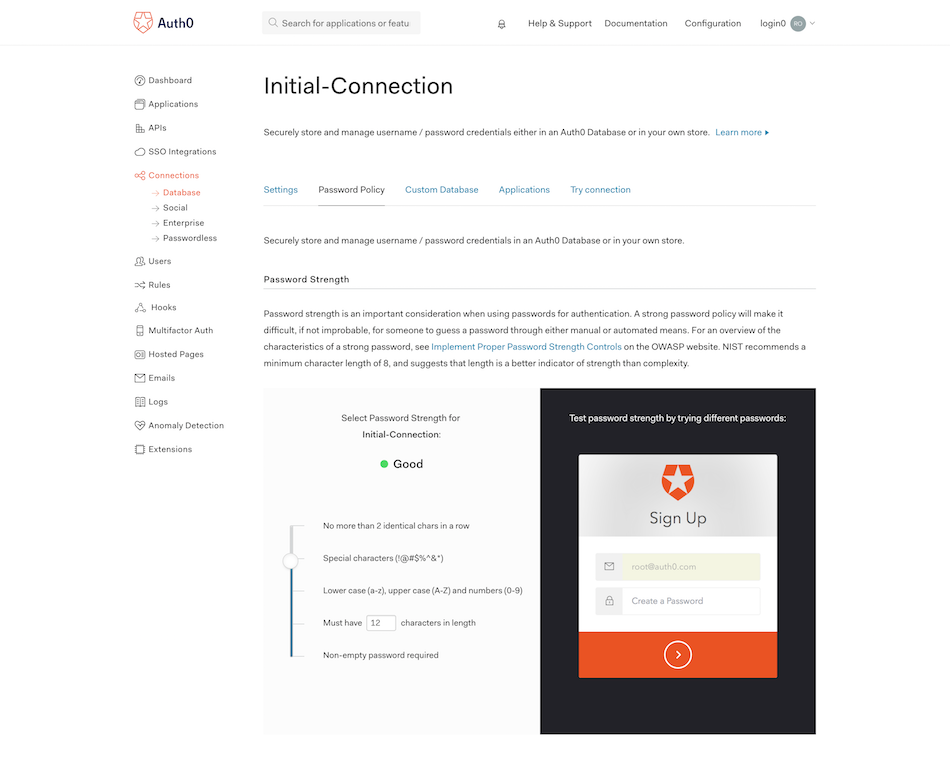
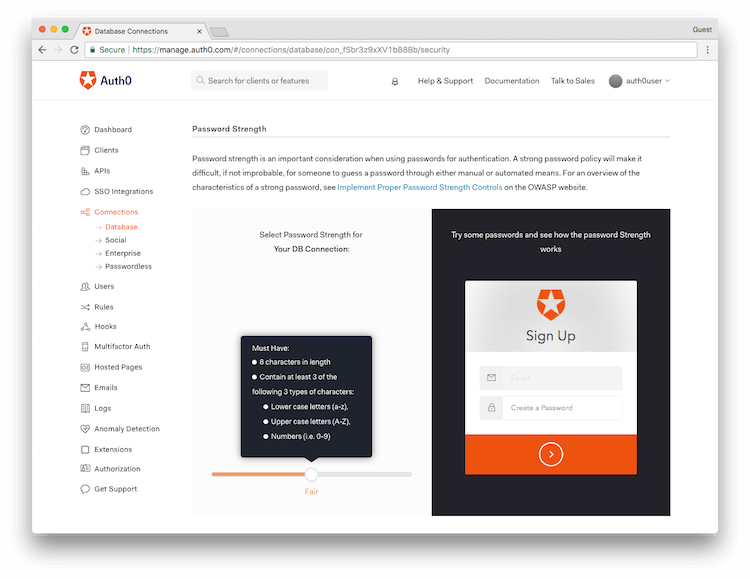
Revert "Minimum Password Length"

diff --git a/articles/hosted-pages/password-reset.md b/articles/hosted-pages/password-reset.md
@@ -1,28 +1,30 @@
 ---
 description: Guide on how to use the hosted password reset page
+crews: crew-2
 topics:
   - password-reset
   - hosted-pages
 contentType: how-to
 useCase: customize-hosted-pages
 ---
+
 # Password Reset Page
 
 The Password Reset Page allows users to change their passwords in the event that they're unable to log in. Using this page, you can maintain consistency in the appearance of your pages (login, password reset, and so on), and your users can easily change their passwords as needed.
 
 This article will help you learn how to configure the custom Password Reset page. If you are trying to reset your own password, see [Reset Your Auth0 Account Password](/support/reset-account-password).
 
-## Enable the Password Reset Page
+## Enable the Custom Password Reset Page
 
 Using the [Auth0 Dashboard](${manage_url}/#/password_reset), you can enable your Hosted Password Reset Page by flipping the toggle switch.
 
 ![Hosted Password Reset Page](/media/articles/hosted-pages/password-reset.png)
 
-## Edit the Password Reset Page
+## Edit the Custom Password Reset Page
 
 Once you've enabled the Password Reset Page for your tenant, you'll be able to use the text editor built into the Auth0 Dashboard to change your HTML, style your page using CSS, and alter the JavaScript used to retrieve custom variables. After you've made your changes, and make sure to click _Save_.
 
-### Custom variables
+### Custom Variables
 
 You can use JavaScript to retrieve the following custom variables:
 
@@ -37,9 +39,7 @@ You can use JavaScript to retrieve the following custom variables:
 | `tenant.support_email` | The support email address for your company displayed to your Auth0 users | 
 | `tenant.support_url` | The support URL for your company displayed to your Auth0 users | 
 | `lang` | The user's language | 
-| `password_policy` | The active connection's security policy. You can see what this is using `${manage_url}/#/connections/database/con_YOUR-CONNECTION-ID/security`. Be sure to provide your connection ID in the URL.) |
-| `password_complexity_options` | Object containing settings for the password complexity requirements |
-| `min_length` | The minimum length required for newly-created passwords. Can range from 1 to 128 characters in length |
+| `password_policy` | The active connection's security policy You can see what this is using `${manage_url}/#/connections/database/con_YOUR-CONNECTION-ID/security`. Be sure to provide your connection ID in the URL.) | 
 
 ::: note
 You can set/check the values for your `tenant` variables in the **Settings** area in [Tenant Settings](${manage_url}/#/tenant)
@@ -100,51 +100,7 @@ Notice that the sample template uses the `tenant.picture_url` variable to return
   </script>
 ```
 
-## Set the minimum password length value
-
-[](/connections/database/password-strength)
-
-Customers currently using a customized Password Reset Page who want to use the new password length parameter must:
-
-1. Update their templates to include library version 1.5.1 or later
-2. Add `password_complexity_options` to leverage the new parameter
-
-If you do not update the Password Reset Page, Auth0 ignores any attempt to set the minimum password length.
-
-### Step 1: Update the change password library version
-
-To use the new minimum password length feature, you should update the change password library used to version 1.5.1 (or later):
-
-```text
-<script src="https://cdn.auth0.com/js/change-password-1.4.0.min.js"></script>
-```
-
-### Step 2: Add `password_complexity_options` to leverage the new parameter
-
-You'll need to add `password_complexity_options` to leverage the new parameter. Add this option to the page's script as follows:
-
-```text
-<script>
-
-    //code omitted for brevity
-
-    new Auth0ChangePassword({
-      container:                    "change-password-widget-container",     // required
-      email:                        '{{email}}',                            // DO NOT CHANGE THIS
-      csrf_token:                   '{{csrf_token}}',                       // DO NOT CHANGE THIS
-      ticket:                       '{{ticket}}',                           // DO NOT CHANGE THIS
-      password_policy:              '{{password_policy}}',                  // DO NOT CHANGE THIS
-      password_complexity_options:  '{{password_complexity_options}}'       // DO NOT CHANGE THIS
-      
-      //code omitted for brevity
-    
-    });
-  </script>
-```
-
-Scroll to the bottom and click **Save**.
-
-## Revert your changes
+## Revert Your Changes
 
 If you'd like to revert to an earlier design, you have two options:
 

diff --git a/articles/connections/database/password-strength.md b/articles/connections/database/password-strength.md
@@ -1,6 +1,7 @@
 ---
 title: Password Strength in Auth0 Database Connections
 description: Auth0's Password Strength feature allows you to customize the level of enforced complexity for passwords entered during user sign-up. Auth0 offers 5 levels of security to match OWASP password recommendations.
+crews: crew-2
 topics:
     - connections
     - database
@@ -29,31 +30,14 @@ Auth0's Password Strength feature allows you to customize the level of enforced 
 
 At each level, new passwords must meet the following criteria:
 
-* **None** (default): at least 1 character of any type.
-* **Low**: at least 6 characters.
-* **Fair**: at least 8 characters including a lower-case letter, an upper-case letter, and a number.
-* **Good**: at least 8 characters including at least 3 of the following 4 types of characters: a lower-case letter, an upper-case letter, a number, a special character (such as !@#$%^&*).
-* **Excellent**: at least 10 characters including at least 3 of the following 4 types of characters: a lower-case letter, an upper-case letter, a number, a special character (such as `!@#$%^&*`). Not more than 2 identical characters in a row (such as `111` is not allowed).
+ * **None** (default): at least 1 character of any type.
+ * **Low**: at least 6 characters.
+ * **Fair**: at least 8 characters including a lower-case letter, an upper-case letter, and a number.
+ * **Good**: at least 8 characters including at least 3 of the following 4 types of characters: a lower-case letter, an upper-case letter, a number, a special character (such as !@#$%^&*).
+ * **Excellent**: at least 10 characters including at least 3 of the following 4 types of characters: a lower-case letter, an upper-case letter, a number, a special character (such as `!@#$%^&*`). Not more than 2 identical characters in a row (such as `111` is not allowed).
 
-## Minimum password length
 
-You can set a minimum length requirement for passwords that is independent of the policy strength requirements described in the [section immediately above](#password-policies). 
-
-The minimum password length you can set is **1**, while the maximum is **128**.
-
-If you opt for a higher-level password policy, but you do not specify a minimum length value, the minimum password length for the policy level will automatically be used:
-
-| Password Policy Level | Minimum Password Length |
-| - | - |
-| None | 1 |
-| Low | 6 |
-| Fair | 8 |
-| Good | 8 |
-| Excellent | 10 |
-
-If you provide a minimum password length, this value superceeds that indicated by the password policy.
-
-## Change your policy
+## Change Your Policy
 
 To change the password strength policy, go to [Database connections](${manage_url}/#/connections/database). Select the database connection you want to change and click on the **Password Strength** tab:
 
@@ -77,7 +61,7 @@ and on mobile:
 
 ![Auth0 Lock Password Strength checks on Mobile](/media/articles/connections/database/password-strength/moUbn4XXxR.png)
 
-## Custom signup errors
+## Custom Signup Errors
 
 Sign-up errors will return a 400 HTTP status code. The JSON response will contain `code: invalid_password` when the password does not meet the selected password policy criteria.
 
@@ -129,6 +113,6 @@ This is a sample `description` error report from a `good` policy with `hello1234
     }
 ```
 
-## Password options
+## Password Options
 
 In addition to the Password Strength feature explained here, the Password Policy settings for a database connection also include various Password Options that can further enhance your connection's password policy and ensure that your users have more secure passwords. Take a look at the [Password Options](/connections/database/password-options) documentation for more information.
